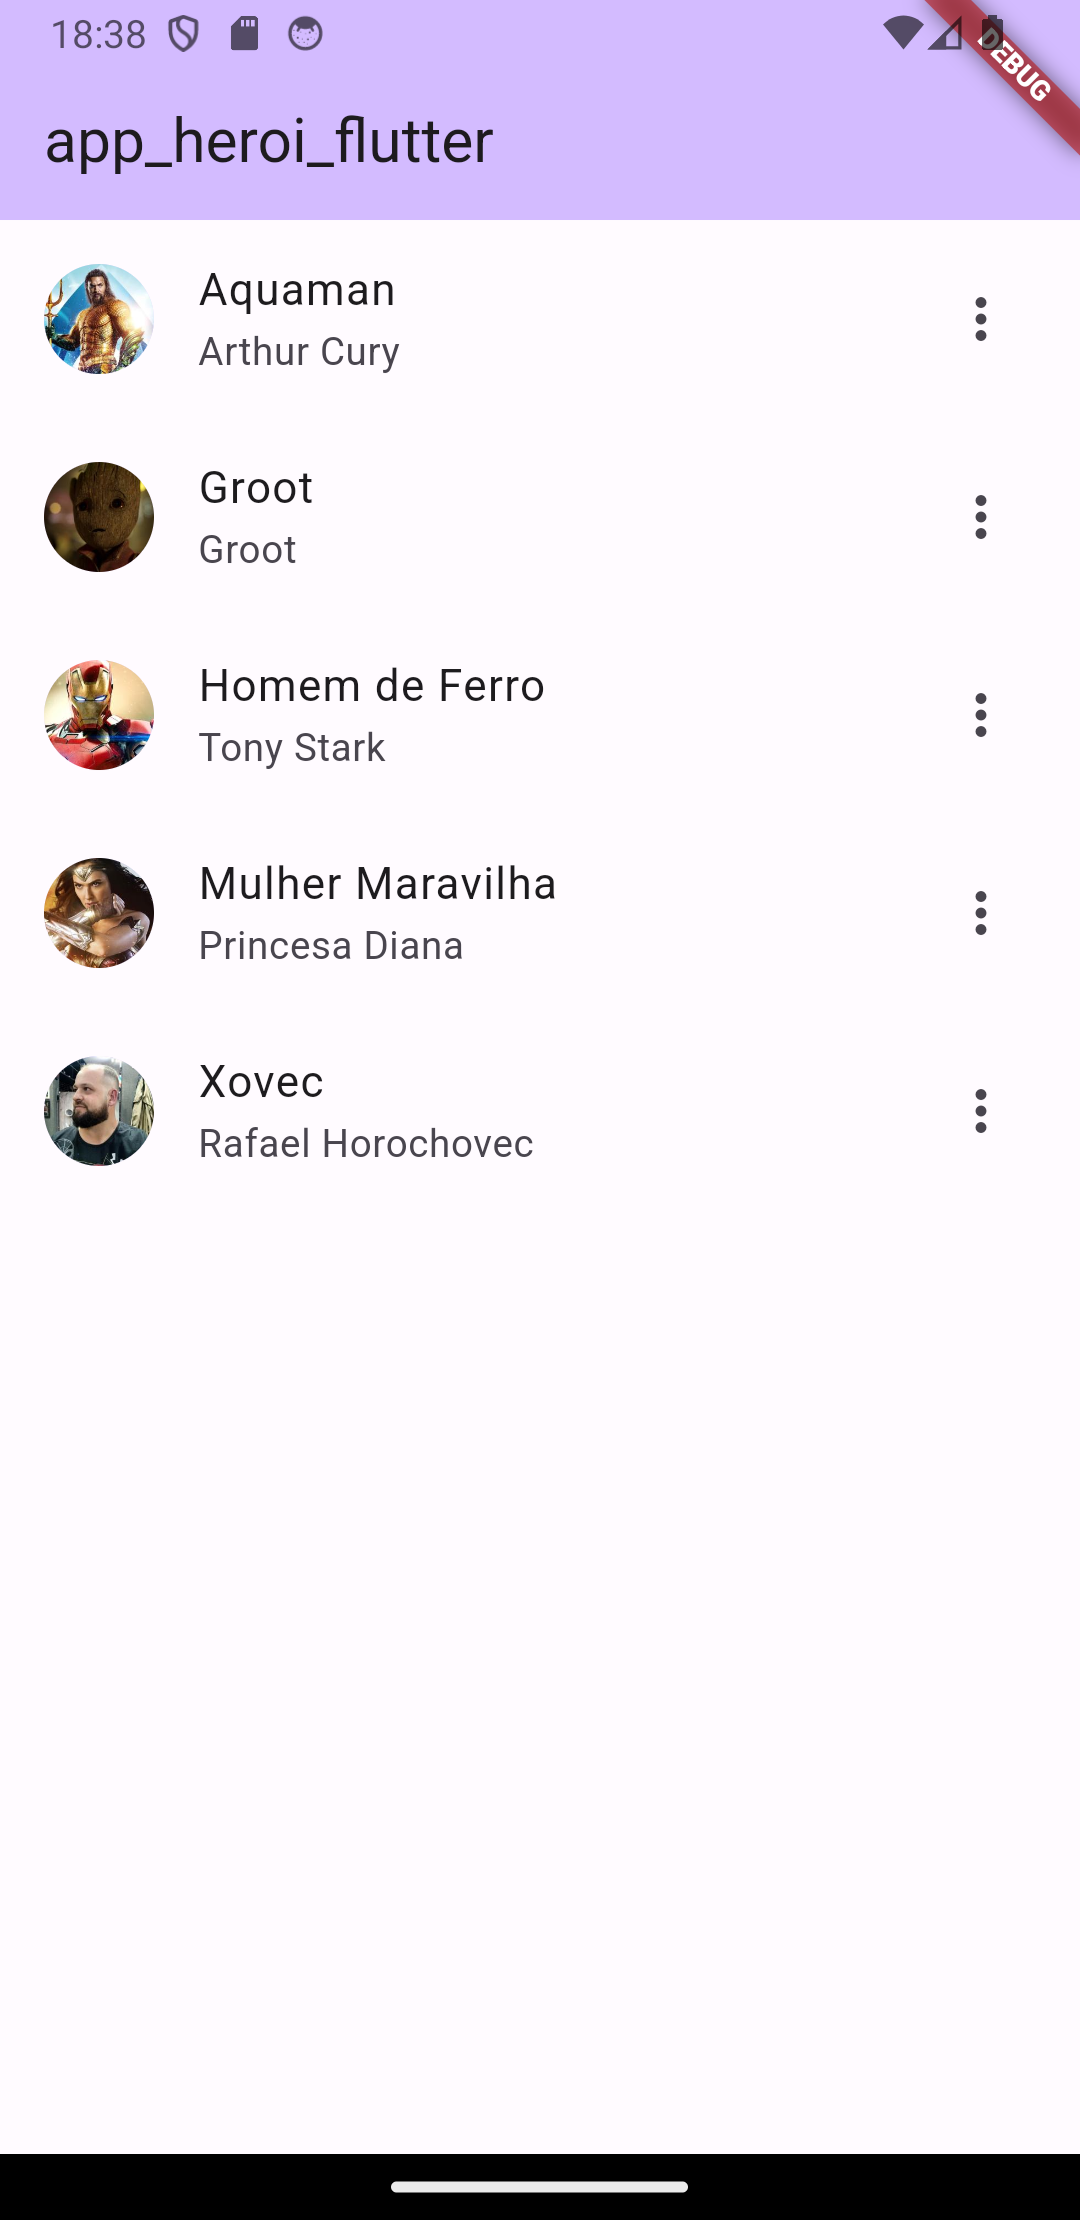
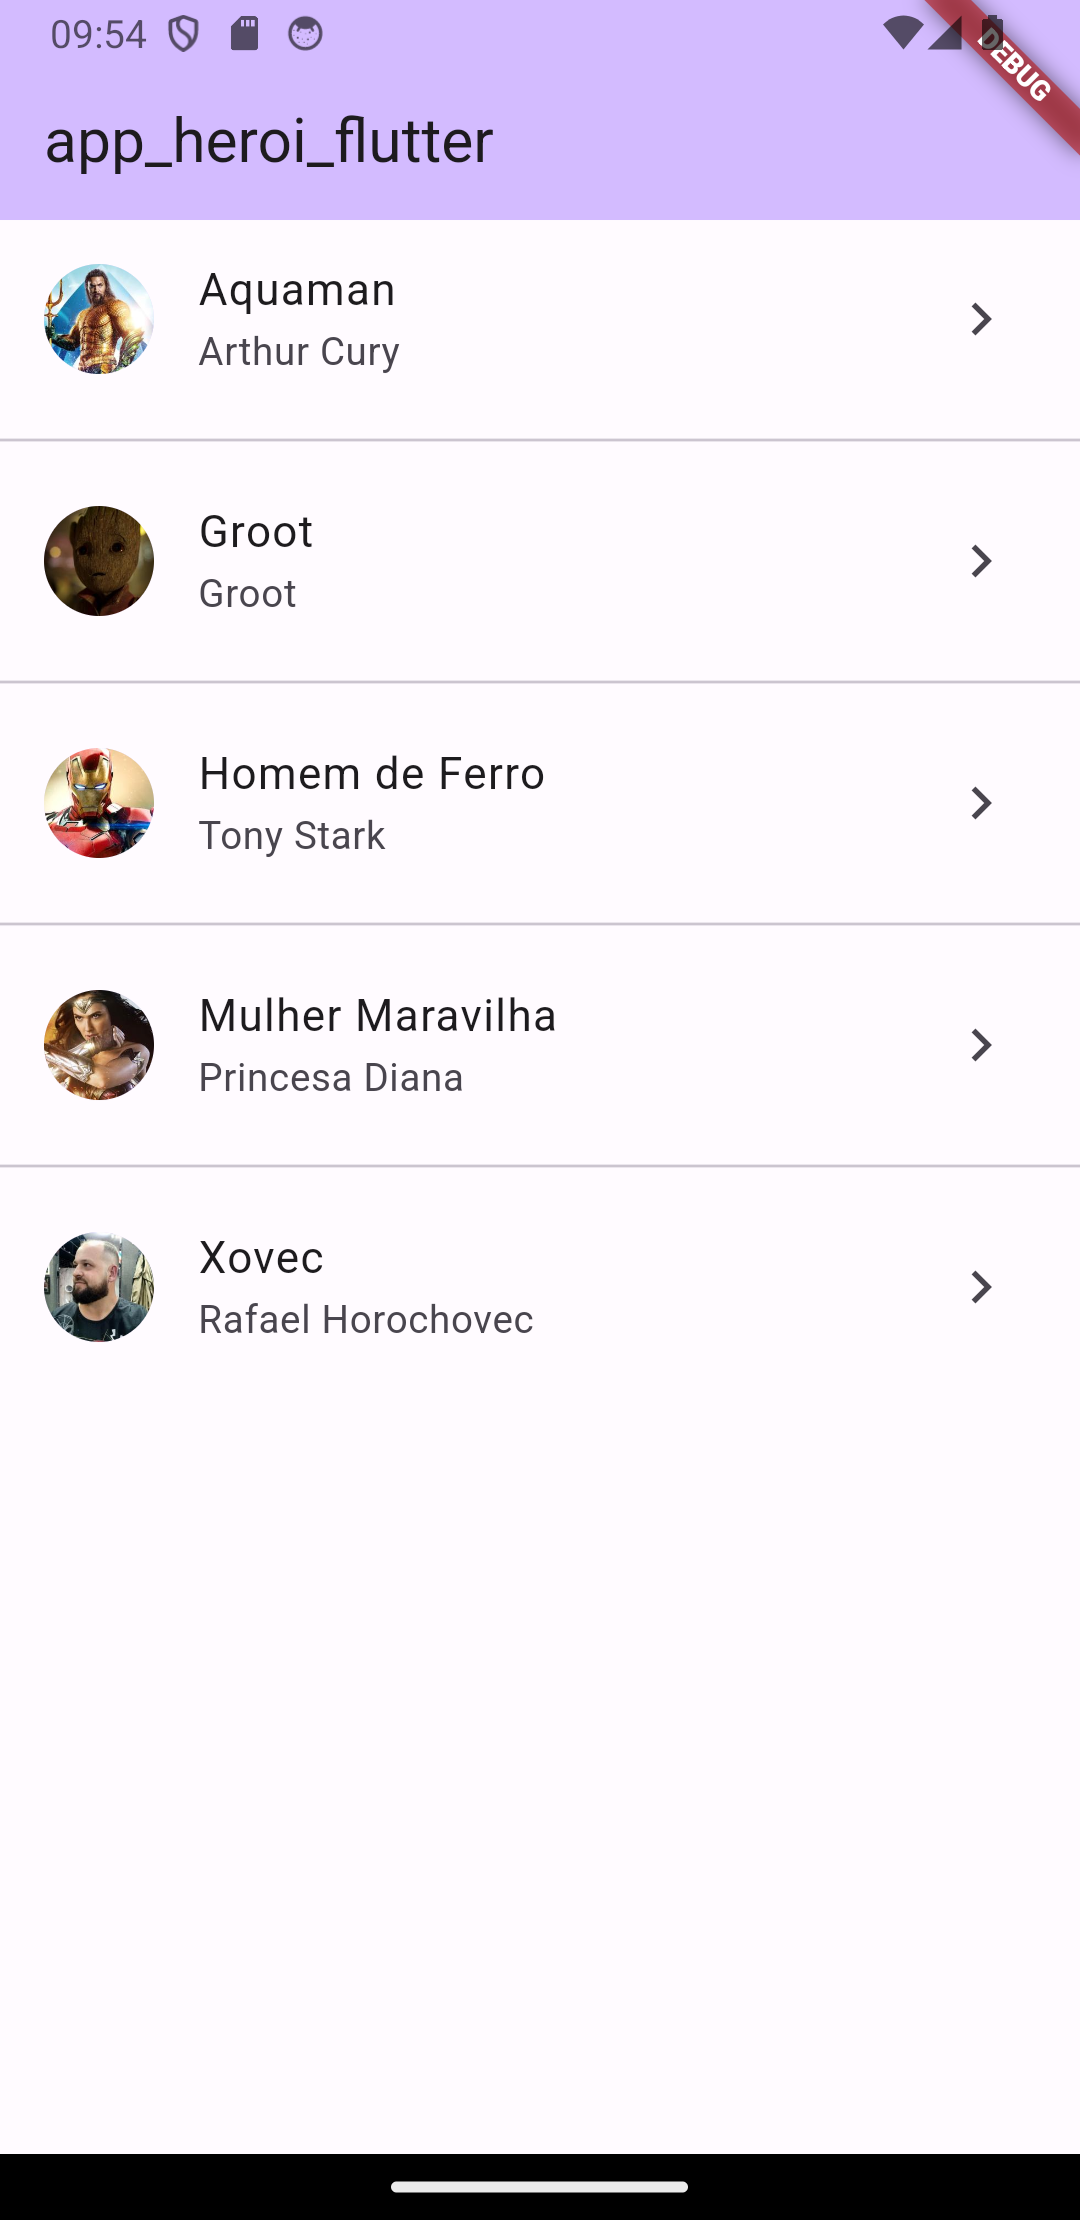
Hero Detail

diff --git a/lib/screen/hero_detail.dart b/lib/screen/hero_detail.dart
@@ -1,0 +1,82 @@
+import 'package:app_heroi_flutter/constant/constants.dart';
+import 'package:app_heroi_flutter/model/hero_model.dart';
+import 'package:flutter/material.dart';
+
+class HeroDetail extends StatelessWidget {
+  const HeroDetail({super.key, required this.hero});
+
+  final HeroModel hero;
+
+  @override
+  Widget build(BuildContext context) {
+    final theme = Theme.of(context);
+    return Scaffold(
+      appBar: AppBar(
+        backgroundColor: Theme.of(context).colorScheme.inversePrimary,
+        title: Text(hero.name.toString()),
+      ),
+      body: Column(
+        children: [
+          Expanded(
+              flex: 1,
+              child: Container(
+                color: theme.primaryColor,
+                child: Column(
+                  mainAxisAlignment: MainAxisAlignment.center,
+                  children: [
+                    ImageProfile(imageUrl: IMG_URL + hero.image.toString()),
+                    const SizedBox(
+                      height: 32,
+                      width: double.infinity,
+                    ),
+                    Text(
+                      hero.name.toString(),
+                      style: theme.textTheme.titleLarge!.copyWith(
+                        color: Colors.white,
+                      ),
+                    )
+                  ],
+                ),
+              )),
+          Expanded(
+              flex: 1,
+              child: Column(
+                children: [
+                  ListTile(
+                    leading: const Icon(Icons.person),
+                    title: const Text('Nome civil'),
+                    subtitle: Text(hero.civil.toString()),
+                  ),
+                  ListTile(
+                    leading: const Icon(Icons.label),
+                    title: const Text('Universo'),
+                    subtitle: Text(hero.universe.toString()),
+                  )
+                ],
+              )),
+        ],
+      ),
+    );
+  }
+}
+
+class ImageProfile extends StatelessWidget {
+  final String imageUrl;
+  const ImageProfile({super.key, required this.imageUrl});
+
+  @override
+  Widget build(BuildContext context) {
+    return Container(
+      decoration: const BoxDecoration(
+        color: Colors.white,
+        shape: BoxShape.circle,
+      ),
+      padding: const EdgeInsets.all(4),
+      child: CircleAvatar(
+        radius: 100.0,
+        backgroundImage: NetworkImage(imageUrl),
+        backgroundColor: Colors.white,
+      ),
+    );
+  }
+}

diff --git a/lib/screen/hero_list.dart b/lib/screen/hero_list.dart
@@ -1,4 +1,5 @@
 import 'package:app_heroi_flutter/constant/constants.dart';
+import 'package:app_heroi_flutter/screen/hero_detail.dart';
 import 'package:app_heroi_flutter/service/hero_service.dart';
 import 'package:flutter/material.dart';
 
@@ -27,7 +28,9 @@ class _HeroListState extends State<HeroList> {
       builder: (context, snapshot) {
         if (snapshot.connectionState == ConnectionState.done) {
           var heroes = snapshot.data;
-          return ListView.builder(
+          return ListView.separated(
+            separatorBuilder: (BuildContext context, int index) =>
+                const Divider(),
             itemCount: heroes == null ? 0 : heroes.length,
             itemBuilder: (context, index) {
               var hero = heroes[index];
@@ -37,7 +40,15 @@ class _HeroListState extends State<HeroList> {
                 ),
                 title: Text(hero.name),
                 subtitle: Text(hero.civil),
-                trailing: const Icon(Icons.more_vert),
+                trailing: const Icon(Icons.keyboard_arrow_right_sharp),
+                onTap: () {
+                  Navigator.push(
+                    context,
+                    MaterialPageRoute(
+                      builder: (context) => HeroDetail(hero: heroes[index]),
+                    ),
+                  );
+                },
               );
             },
           );

diff --git a/README.md b/README.md
@@ -16,4 +16,4 @@ For help getting started with Flutter development, view the
 samples, guidance on mobile development, and a full API reference.
 
 ## Screenshots
-<img src="https://github.com/rlhorochovec/app_heroi_flutter/blob/develop/screenshots/hero_list.png" width="250" />
+<img src="https://github.com/rlhorochovec/app_heroi_flutter/blob/develop/screenshots/hero_list.png" width="250" /> <img src="https://github.com/rlhorochovec/app_heroi_flutter/blob/develop/screenshots/hero_detail.png" width="250" />
